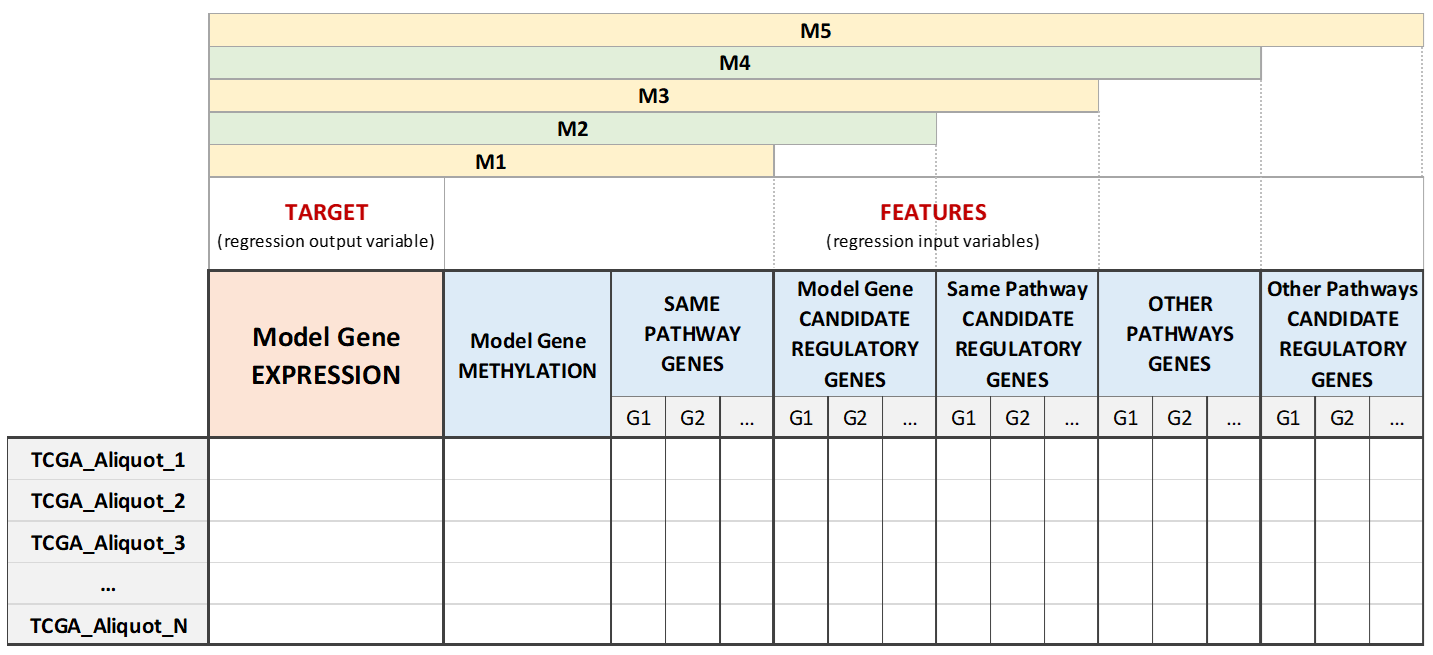
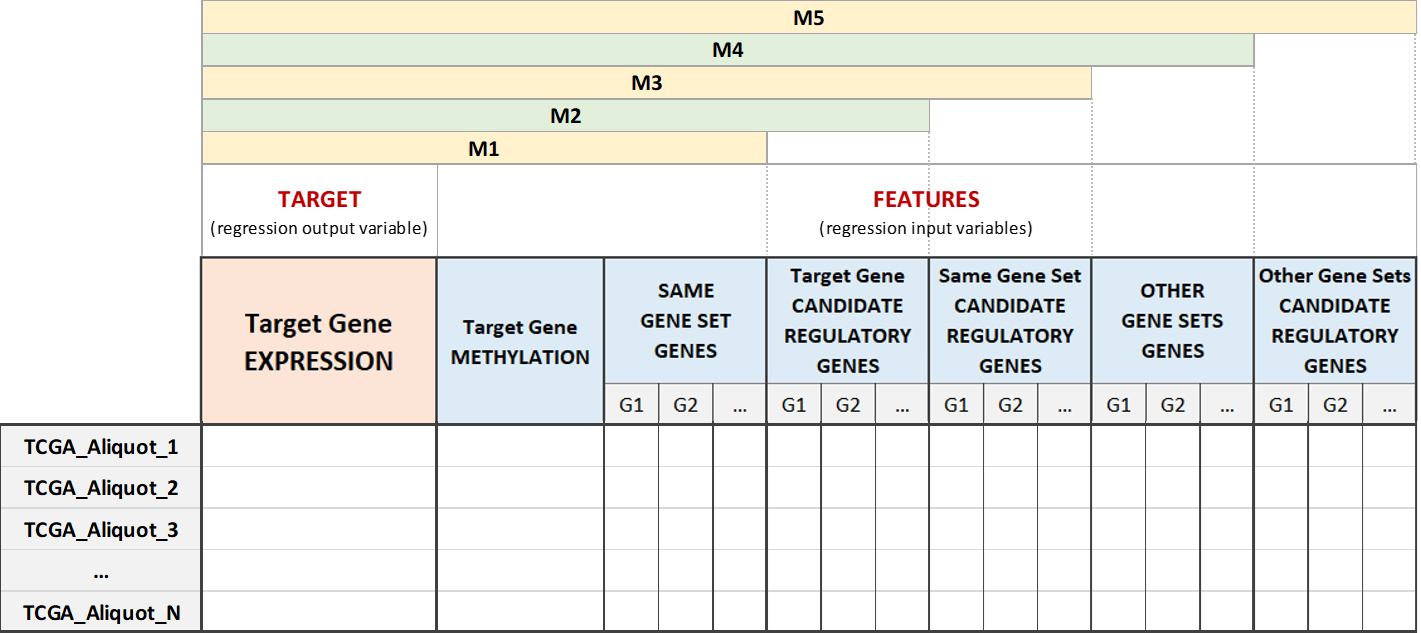
Correct typos in doc

Changed region(s): [[0.0, 0.0, 1.0, 1.0]]

diff --git a/doc/source/datanalysis.rst b/doc/source/datanalysis.rst
@@ -4,21 +4,21 @@ In this phase all the data arranged in the previous phases are processed accordi
 
 Each model is built subsequently executing the following two steps:
 
-	* a **FEATURE SELECTION** process that allows you to select the best subset of features for the model gene, removing inputs that are known to be non-significant for the regulation of the model gene expression beforehand. In particular, for each gene of interest and for each input matrix, the feature selection process is performed five times: in order to reduce the bias, the set of TCGA data samples is randomly split into five, possibly equal, groups of samples which are used to create five different testing sets (this partition is indeed performed only once at the beginning of the data analysis, and then the same five subsets of samples are used for processing all the genes. Therefore, feature selection is performed five times, one for each generated testing set (using the remaining samples as training set), according to a *k-fold cross-validation* process, setting *k=5*. The intersection of the five sets of extracted features is computed to obtain the final selected features for the current gene in the current matrix. Two different types of feature selection are available:
+	* a **FEATURE SELECTION** process that allows selecting the best subset of features for the target gene, removing inputs that are known to be non-significant for the regulation of the target gene expression beforehand. In particular, for each target gene of interest and for each input matrix, the feature selection process is performed five times: in order to reduce the bias, the set of TCGA data samples is randomly split into five, possibly equal, groups of samples which are used to create five different testing sets (this partition is indeed performed only once at the beginning of the data analysis, and then the same five subsets of samples are used for processing all the genes). Therefore, feature selection is performed five times, one for each generated testing set (using the remaining samples as training set), according to a *k-fold cross-validation* process, setting *k=5*. The intersection of the five sets of extracted features is computed to obtain the final selected features for the target gene in the considered data matrix. Two different types of feature selections are available:
 	
-		* **foreward feature selection**, for which three different methods can be implemented by the library, according to how features selected in the previous steps are treated:
+		* **forward feature selection**, for which three different methods are available in the library, according to how features selected in the previous steps are treated:
 		
-			* the default incremental method (**type='ffs_default'**), which implements the forewad feature selection retrieving in each step (i.e. for each data matrix) only the features extracted as most relevant in the previous step and re-evaluating them with all the new features in the current matrix in a new feature selection process;
+			* the default incremental method (**type='ffs_default'**), which implements the forward feature selection considering in each step (i.e. for each data matrix) only the features extracted as most relevant in the previous step and re-evaluating them with all the new features in the current matrix in a new feature selection process;
 			
-			* an incremental method without the re-evaluation of previous features (**type='ffs_no_reval'**), which implements the forewad feature selection considering at each step (i.e. for each data matrix) only the new features added to the current matrix w.r.t. the previous one, maintaining the features selected in the previous step as fixed and without re-evaluating them in the new feature selection process (this means that the set of features selected for each data matrix will surely contain all the features selected for the previous one, along with one or more new relevant features);
+			* an incremental method without the re-evaluation of previous features (**type='ffs_no_reval'**), which implements the forward feature selection considering at each step (i.e. for each data matrix) only the new features added to the current matrix w.r.t. the previous one, maintaining the features selected in the previous step as fixed and without re-evaluating them in the new feature selection process (this means that the set of features selected for each data matrix will surely contain all the features selected for the previous data matrix, along with one or more new relevant features);
 			
-			* a complete method (**type='all'**)which implements the foreward feature selection considering all the features in the current matrix , regardless of the features selected in the previous step. This method is useful when you want to analyze all the potential regulatory features all together, without any previous pre-selection process (e.g. this is extremely useful if applied to M5, which contains the whole set of candidate regulatory features). However, you have to pay attention to this type of selection process, because the computational complexity will inevitably be affected.
+			* a complete method (**type='all'**) which implements the forward feature selection considering all the features in the current matrix, regardless of the features selected in the previous step. This method allows analyzing all the potential regulatory features all together, without any previous pre-selection process (e.g. in particular this can be useful if applied to M5, which contains the whole set of candidate regulatory features). However, pay attention to this type of selection process, because the computational complexity will inevitably increase, in case greatly.
 
 		* **Lasso**, where the features selected are the ones with a coefficient different from zero, according to the Lasso algorithm.
 
 |
 
-The following images illustrates the *k-fold cross-validation* process implemented during the *foreward feature selection* and the details of how the default incremental method works, respectively.
+The following images illustrate the *k-fold cross-validation* process implemented during the *forward feature selection* and the details of how the default incremental method works, respectively.
 
 .. image:: images/fselection.png
 
@@ -38,21 +38,21 @@ Here it is an example of the linear regression process for the sample gene TKT a
 
 |
 
-However, since it is possible to introduce an alteration in the results due to the order in which features are included in the models, the regression procedure implemented here is logically based only on the biological knowledge and it therefore analyzes the full M2 matrix (which in turn contains M1) at first, including all at once in the model all the features whose exchanged order could cause different results in the analysis. Subsequently, data analysis on M3 and M5 is performed, finally executing only three regression processes for each target gene, assessing the impact of the model gene set first and then the influence of the other gene sets considered.
+However, an alteration in the results can be introduced due to the order in which features are included in the models (i.e. considered data matrixes). Thus, the regression procedure implemented is logically based only on the biological meaning of the considered features; it therefore analyzes the full M2 matrix (which contains M1) at first, including all at once the features whose exchanged order could cause different results in the analysis. Subsequently, data analysis on M3 and M5 is performed, finally executing only three regression processes for each target gene, assessing the impact of the genes in the target gene set first and then the influence of the genes in the other gene sets considered.
 
-The set of fuctions used to perform the analysis is the following:
+The set of functions used to perform the analysis is the following:
 
 ``feature_selection(gene_set, n_data_matrix, type)``
 
-	The FEATURE_SELECTION operation executes the feature selection procedure per gene set and per data matrix, according to the specified type of selection: it takes as input the name of the gene set to consider and the number of the model to build (i.e., the number of the data matrix to consider) and performs the specified feature selection for all the genes of interest in the selected set. Results are exported locally either in Excel or text files.
+	The FEATURE_SELECTION operation executes the feature selection procedure per gene set and per data matrix, according to the specified type of selection: it takes as input the name of the gene set to consider and the number of the model to build (i.e., the number of the data matrix to consider) and performs the specified feature selection for all the genes of interest in the selected set. Results are exported locally in Excel and text files.
 	
 	**Parameters:**
 	
-	* *gene_set*: the set of genes of interest to analyze
+	* *gene_set*: the name of the set of genes of interest to analyze
 	
-	* *n_data_matrix*: number identifying the data matrix to analyze (only 2,3 and 5 values are permitted)
+	* *n_data_matrix*: number identifying the data matrix to analyze (only 2, 3 and 5 values are permitted)
 	
-	* *type*: the type of feature selection to perform (possibile values are {'ffs_default','ffs_no_reval','lasso','all'})
+	* *type*: the type of feature selection to perform (possible values are {'ffs_default', 'ffs_no_reval', 'lasso', 'all'})
 	
 	Example::
 
@@ -65,13 +65,13 @@ The set of fuctions used to perform the analysis is the following:
 
 ``linear_regression(gene_set, n_data_matrix)``
 
-	The LINEAR_REGRESSION operation executes the linear regression analysis per gene set and per data matrix, considering as inputs of the model only the features selected during the previous feature selection procedure. Results are exported locally either in Excel or text files.
+	The LINEAR_REGRESSION operation executes the linear regression analysis per gene set and per data matrix, considering as inputs of the model only the features selected during the previous feature selection procedure. Results are exported locally in Excel and text files.
 	
 	**Parameters:**
 	
-	* *gene_set*: the set of genes of interest to analyze
+	* *gene_set*: the name of the set of genes of interest to analyze
 	
-	* *n_data_matrix*: number identifying the data matrix to analyze (only 2,3 and 5 values are permitted)
+	* *n_data_matrix*: number identifying the data matrix to analyze (only 2, 3 and 5 values are permitted)
 	
 	Example::
 
@@ -84,13 +84,13 @@ The set of fuctions used to perform the analysis is the following:
 
 ``summarize_reg(gene_set, n_data_matrix)``
 
-	The SUMMARIZE_REG operation summarizes all the data analysis results, by collecting them in convenient tables that exported locally in Excel files.
+	The SUMMARIZE_REG operation summarizes all the data analysis results, by collecting them in convenient tables that are exported locally in Excel files.
 	
 	**Parameters:**
 	
-	* *gene_set*: the set of genes of interest to summarize
+	* *gene_set*: the name of the set of genes of interest to summarize
 	
-	* *n_data_matrix*: number identifying the data matrix to summarize (only 2,3 and 5 values are permitted)
+	* *n_data_matrix*: number identifying the data matrix to summarize (only 2, 3 and 5 values are permitted)
 	
 	Example::
 
@@ -107,7 +107,7 @@ The set of fuctions used to perform the analysis is the following:
 	
 	**Parameters:**
 	
-	* *gene_set*: the set of genes of interest to summarize
+	* *gene_set*: the name of the set of genes of interest to summarize
 	
 	Example::
 
@@ -118,11 +118,11 @@ The set of fuctions used to perform the analysis is the following:
 
 ``best_genes(gene_set)``
 
-	The BEST_GENES operation collects the target genes with the best linear fit (Adjusted R2 >= 0.6) in the three regression models, storing them locally in a single Excel file.
+	The BEST_GENES operation collects the target genes with the best linear fit (Adjusted R2 >= 0.6) in the three regression models built, storing them locally in a single Excel file.
 	
 	**Parameters:**
 	
-	* *gene_set*: the set of genes of interest to summarize
+	* *gene_set*: the name of the set of genes of interest to summarize
 	
 	Example::
 

diff --git a/doc/source/datamatrixes.rst b/doc/source/datamatrixes.rst
@@ -1,16 +1,16 @@
 Data Matrixes Construction
 ============================================
-Extracted data are organized in order to let them be used as input for the data analysis, such that you can analyze the single regulation system of each target gene, by identifying the role of its possible regulatory features quantified as for their impact on the target expression, whatever the feature is, e.g. the gene methylation, the expression of a gene in the same gene set or in another gene set and the expression of genes encoding for transcription factors.
+Extracted data are organized in order to use them as input for the data analysis. The single regulation system of each target gene is analyzed, by identifying the role of its possible regulatory features. They are quantified for their impact on the target expression, whatever the feature is, i.e. the gene methylation, the expression of a gene in the same gene set or in another gene set and the expression of genes encoding for transcription factors.
 
-An additive approach is adopted, building five different data matrixes for each gene of interest. In this way you can keep track of each gene regulation system step by step, according to the different types of biological features. More specifically, the matrixes are built starting from the gene expression and methylation value of the model gene and gradually incrementing the number of columns, as follows:
+An additive approach is adopted, building five different data matrixes for each gene of interest. In this way it is possible to keep track of each gene regulation system step by step, according to the different types of biological features. More specifically, the matrixes are built starting from the gene expression and methylation value of the target gene and gradually incrementing the number of columns, as follows:
 
-	* **Matrix M1** contains the expression of the model gene, its methylation and the expression of the genes belonging to the same gene set as the model gene;
+	* **Matrix M1** contains the expression of the target gene, its methylation and the expression of the genes belonging to the same gene set as the target gene;
 	
-	* **Matrix M2** adds the expression of all the candidate regulatory genes of the model gene to M1, avoiding repetitions;
+	* **Matrix M2** adds the expression of all the candidate regulatory genes of the target gene to M1, avoiding repetitions;
 	
-	* **Matrix M3** adds the expression of the candidate regulatory genes of all the genes in the model gene set to M2, avoiding repetitions;
+	* **Matrix M3** adds the expression of the candidate regulatory genes of all the genes in the target gene set to M2, avoiding repetitions;
 	
-	* **Matrix M4** adds the expression of the genes belonging to the other gene sets with respect to the considered model gene to matrix M3, avoiding repetitions;
+	* **Matrix M4** adds the expression of the genes belonging to the other gene sets with respect to the considered target gene to matrix M3, avoiding repetitions;
 	
 	* **Matrix M5** adds the expression of the candidate regulatory genes of all the genes belonging to the other gene sets to matrix M4, avoiding repetitions.
 
@@ -19,11 +19,11 @@ An additive approach is adopted, building five different data matrixes for each 
 
 |
 
-Here it is the set of fuctions used to build the five data matrixes:
+Here it is the set of functions used to build the five data matrixes:
 
 ``create_m1()``
 
-	The CREATE_M1 operation builds the first data matrix for each gene of interest, collecting the current gene expression and methylation values, along with the expression values of all the genes in the same gene set. One data matrix for each target gene is created and exported locally in as many Excel files as the considered genes; while the whole set of M1 matrixes is returned as a Python dictionary (dict_model_v1.p), where each target gene (set as key) is associated to a Pandas dataframe containing M1 data of interest (set as value).
+	The CREATE_M1 operation builds the first data matrix for each target gene of interest, collecting the target gene expression and methylation values, along with the expression values of all the genes in the same gene set. One data matrix for each target gene is created and exported locally in as many Excel files as the considered genes; while the whole set of M1 matrixes is returned as a Python dictionary (dict_model_v1.p), where each target gene (set as key) is associated with a Pandas dataframe containing the data for its M1 matrix (set as value).
 	
 	**Return:** a Python dictionary
 	
@@ -36,7 +36,7 @@ Here it is the set of fuctions used to build the five data matrixes:
 
 ``create_m2()``
 
-	The CREATE_M2 operation builds the second data matrix for each gene of interest, adding to the first matrix data about the expression of candidate regulatory genes of each gene of interest. One data matrix for each target gene is created and exported locally in as many Excel files as the considered genes; while the whole set of M2 matrixes is returned as a Python dictionary (dict_model_v2.p), where each target gene (set as key) is associated to a Pandas dataframe containing M2 data of interest (set as value). 
+	The CREATE_M2 operation builds the second data matrix for each target gene of interest, adding to the first matrix data about the expression of candidate regulatory genes of each gene of interest. One data matrix for each target gene is created and exported locally in as many Excel files as the considered genes; while the whole set of M2 matrixes is returned as a Python dictionary (dict_model_v2.p), where each target gene (set as key) is associated with a Pandas dataframe containing the data for its M2 matrix (set as value). 
 	
 	**Return:** a Python dictionary
 	
@@ -49,7 +49,7 @@ Here it is the set of fuctions used to build the five data matrixes:
 
 ``create_m3()``
 
-	The CREATE_M3 operation builds the third data matrix for the analysis for each gene of interest, adding to the second matrix data about the expression of candidate regulatory genes of genes of interest belonging to the same gene set of the model gene. One data matrix for each target gene is created and exported locally in as many Excel files as the considered genes; while the whole set of M3 matrixes is returned as a Python dictionary (dict_model_v3.p), where each target gene (set as key) is associated to a Pandas dataframe containing M3 data of interest (set as value). 
+	The CREATE_M3 operation builds the third data matrix for each target gene of interest, adding to the second matrix data about the expression of candidate regulatory genes of genes of interest belonging to the same gene set of the target gene. One data matrix for each target gene is created and exported locally in as many Excel files as the considered genes; while the whole set of M3 matrixes is returned as a Python dictionary (dict_model_v3.p), where each target gene (set as key) is associated with a Pandas dataframe containing the data for its M3 matrix (set as value). 
 	
 	**Return:** a Python dictionary
 	
@@ -62,7 +62,7 @@ Here it is the set of fuctions used to build the five data matrixes:
 
 ``create_m4()``
 
-	The CREATE_M4 operation builds the fourth data matrix for the analysis for each gene of interest, adding to the third matrix data about the expression of genes of interest belonging to the other gene sets with respect ot the model gene. One data matrix for each target gene is created and exported locally in as many Excel files as the considered genes; while the whole set of M4 matrixes is returned as a Python dictionary (dict_model_v4.p), where each target gene (set as key) is associated to a Pandas dataframe containing M4 data of interest (set as value). 
+	The CREATE_M4 operation builds the fourth data matrix for each target gene of interest, adding to the third matrix data about the expression of genes of interest belonging to the other gene sets with respect to the target gene. One data matrix for each target gene is created and exported locally in as many Excel files as the considered genes; while the whole set of M4 matrixes is returned as a Python dictionary (dict_model_v4.p), where each target gene (set as key) is associated with a Pandas dataframe containing the data for its M4 matrix (set as value). 
 	
 	**Return:** a Python dictionary
 	
@@ -75,7 +75,7 @@ Here it is the set of fuctions used to build the five data matrixes:
 
 ``create_m5()``
 
-	The CREATE_M5 operation builds the fifth data matrix for the analysis for each gene of interest, adding to the fourth matrix data about the expression of candidate regulatory genes of genes of interest belonging to the other gene sets with respect to the model gene.. One data matrix for each target gene is created and exported locally in as many Excel files as the considered genes; while the whole set of M5 matrixes is returned as a Python dictionary (dict_model_v5.p), where each target gene (set as key) is associated to a Pandas dataframe containing M5 data of interest (set as value).
+	The CREATE_M5 operation builds the fifth data matrix for each target gene of interest, adding to the fourth matrix data about the expression of candidate regulatory genes of genes of interest belonging to the other gene sets with respect to the target gene. One data matrix for each target gene is created and exported locally in as many Excel files as the considered genes; while the whole set of M5 matrixes is returned as a Python dictionary (dict_model_v5.p), where each target gene (set as key) is associated with a Pandas dataframe containing the data for its M5 matrix (set as value).
 	
 	**Return:** a Python dictionary
 	

diff --git a/doc/source/introduction.rst b/doc/source/introduction.rst
@@ -2,28 +2,28 @@ Introduction
 ============================================
 This library implements a method for analyzing the regulation systems of target genes in a specific genetic pathology, such as cancer. Adopting a linear regression approach, it builds a predictive model for the regulation of target genes expression, in order to identify the relevant features that better explain the regulation of each gene of interest within patients under analysis.
 
-The regulation system of each target gene is analyzed singularly and independently, by assessing the effect of some specific factors on its expression:
+The regulation system of each target gene is analyzed singularly and independently, by assessing the effect of some specific factors on its expression (regulatory features):
 	
 	* **DNA methylation** (more specifically, the mean promotorial methylation level of the target gene);
 	
-	* **expression of target genes** belonging to the **same gene set** as the model gene;
+	* **expression of the genes** belonging to the **same gene set** (e.g. pathway) as the target gene;
 	
-	* **expression of target genes** belonging to the **other gene sets** with respect to the model gene;
+	* **expression of the genes** belonging to the **other gene sets** (e.g. pathways) with respect to the target gene;
 	
 	* **expression of candidate regulatory genes** (i.e. those genes encoding for transcription factors having binding sites located in the promoter regions of genes of interest).
 
-Methylation, gene expression and transcription factors data of interest are extracted from the `GMQL <http://gmql.eu/gmql-rest/>`_ system, using the Python library `PyGMQL <https://pygmql.readthedocs.io/en/latest/index.html>`_.
+Methylation, gene expression and transcription factor data of interest are extracted from the `GMQL <http://gmql.eu/gmql-rest/>`_ system, using the Python library `PyGMQL <https://pygmql.readthedocs.io/en/latest/index.html>`_.
 ENCODE and TCGA are the datasets currently available on GMQL for this type of data; so, this method can be used to investigate all the 33 types of cancer analyzed by TCGA:
 
 .. image:: images/tcgatumors.png
 
 
-This method allows to analyze the beavior of specific human genes within cancer patients, investigating the biological relationships which hold among each other and the effect that heterogeneous regulatory elements have on their expression.
+This method allows to analyze the behavior of specific human genes within cancer patients, investigating the biological relationships which hold among each other and the effect that heterogeneous regulatory elements have on their expression.
 
-The matter is understanding the relationships between the activity of each target gene and the genes belonging either to the same gene set or to the other relevant sets, and the relationships between all such target genes and their candidate regulatory genes: this may lead to identify common or frequent regulators with a key role in the regulation systems of the genes of interest, eventually predicting their potential oncogenic role. Whenever a correlation exists, an assessment of the potential influence that the gene methylation may have on its expression is also made.
+The matter is understanding the relationships between the activity of each target gene and the genes belonging either to the same gene set or to the other gene sets, and the relationships between all such target genes and their candidate regulatory genes: this may lead to identify common or frequent regulators with a key role in the regulation systems of the genes of interest, eventually predicting their potential oncogenic role. Whenever a correlation exists, an assessment of the potential influence that the gene methylation may have on its expression is also made.
 
-Analyzing all the features is usually extremely heavy from a computational standpoint, resulting in a high computational complexity. For this reason, in order to make this analysis sustainable within reasonable time and using standard computational resources, the approach implemented in this library does not analyze all the existing correlations among target genes and their regulatory features, but it identifies those associations that best contribute to the target genes expression regulation.
-The results are focused by design to the **best-predicting sets of features**, leaving out potential regulators with important biological functions, but with an extremely low predictive power with respect to the expression of the target gene.
+Analyzing all the considered regulatory features is usually extremely heavy from a computational standpoint, resulting in a high computational complexity. For this reason, in order to make this analysis sustainable within reasonable time and using standard computational resources, the approach implemented in this library does not analyze all the existing correlations among target genes and all their regulatory features, but it identifies those associations that best contribute to the target genes expression regulation.
+The results are focused by design to the **best-predicting sets of features**, leaving out potential regulators in case with important biological functions, but with an extremely low predictive power with respect to the expression of the target gene.
 
 The main phases that are performed during the complete execution of this method are the following:
 
@@ -43,8 +43,8 @@ The next chapters of the documentation deeply explain the rationale behind each 
 
 |
 
-This method has been developed and validated at first for assessing the behavior of 177 target genes belonging to three relavant pathways (DNA_REPAIR, STEM_CELLS and GLUCOSE_METABOLISM) for the ovarian cancer, more specifically the *Ovarian Serous Cystadenocarcinoma*.
-All the examples in this documentation refers to this specific ovarian cancer case.
+This method has been developed and validated at first for assessing the behavior of 177 target genes belonging to three relevant pathways (DNA_REPAIR, STEM_CELLS and GLUCOSE_METABOLISM) for the ovarian cancer, more specifically the *Ovarian Serous Cystadenocarcinoma*.
+All the examples in this documentation refer to this specific ovarian cancer case.
 
 You can see here a sample Python script for using the library::
 

diff --git a/doc/source/encode.rst b/doc/source/encode.rst
@@ -5,7 +5,7 @@ The first data extraction phase consists in selecting from ENCODE all the Transc
 .. image:: images/TFs.png
 
 
-The query for extracting TFs of interest is implemented acconding to the `PyGMQL <https://pygmql.readthedocs.io/en/latest/index.html>`_ syntax and data are retrieved from public datasets available on the `GMQL <http://gmql.eu/gmql-rest/>`_
+The query for extracting TFs of interest is implemented according to the `PyGMQL <https://pygmql.readthedocs.io/en/latest/index.html>`_ syntax and data are retrieved from public datasets available on the `GMQL <http://gmql.eu/gmql-rest/>`_
 system.
 
 |
@@ -16,11 +16,11 @@ Extraction of Transcription Factors
 
 ``extract_tfs(cell_lines, gencode_version)``
 
-	The EXTRACT_TFS operation extracts, from ChIP_Seq ENCODE expriments and for assembly GRCh38, the Transcription Factors that bind to promoter regions of genes belonging to specific cell lines, filtering by 'conservative idr thresholded peaks' in order to extract higher quality region data, and removing negative audits in order to keep only high quality data samples. Intermediate results files are exported locally during the execution of the function, while the final set of trasncription factors is returned as a Python dictionary (dict_GeneTF.p), where each target gene (set as key) is associated to the list of TFs binding to its promoters (set as value).
+	The EXTRACT_TFS operation extracts, from ChIP_Seq ENCODE experiments and for assembly GRCh38, the Transcription Factors of specific cell lines that bind to promoter regions of genes in the specified version of the GENCODE genomic annotations, filtering by 'conservative idr thresholded peaks' in order to extract higher quality region data, and removing negative audits in order to keep only high quality data samples. Intermediate result files are exported locally during the execution of the function, while the final set of transcription factors is returned as a Python dictionary (dict_GeneTF.p), where each target gene (set as key) is associated with the list of TFs binding to its promoters (set as value).
 	
 	**Parameters:**
 	
-	* *cell_lines*: a list of strings containing the names of the cell lines to analyze (it's possible to consider data from 1 up to 3 cell lines at the same time)
+	* *cell_lines*: a list of strings containing the names of the cell lines to analyze (it is possible to consider data from 1 up to 3 cell lines at the same time)
 	
 	* *gencode_version*: number representing the GENCODE genomic annotations to use (currently, for assembly GRCh38, versions 22, 24 and 27 can be used)
 	
@@ -39,7 +39,7 @@ Identification of Regulatory Genes
 
 ``extract_regulatory_genes()``
 
-	The EXTRACT_REGULATORY_GENES operation extracts from the set of Transcription Factors associated to a gene, the list of its candidate regulatory genes, i.e., the genes that encode for those TFs. Intermediate results files are exported locally during the execution of the function, while the final set of trasncription factors is returned as a Python dictionary (dict_RegulGenes.p), where each target gene (set as key) is associated to the list of its candidate regulatory genes (set as value).
+	The EXTRACT_REGULATORY_GENES operation extracts from the set of Transcription Factors associated with a gene, the list of its candidate regulatory genes, i.e., the genes that encode for those TFs. Intermediate results files are exported locally during the execution of the function, while the final set of transcription factors is returned as a Python dictionary (dict_RegulGenes.p), where each target gene (set as key) is associated with the list of its candidate regulatory genes (set as value).
 	
 	**Return:** a Python dictionary
 	
@@ -50,7 +50,7 @@ Identification of Regulatory Genes
 
 |
 
-The following image explains the extraction process for each target gene works and how its TFs and regulatory genes are identified:
+The following image explains how the extraction process for each target gene works and how its TFs and regulatory genes are identified:
 
 .. image:: images/encode.png
 

diff --git a/doc/source/initialization.rst b/doc/source/initialization.rst
@@ -2,12 +2,12 @@ Initialization
 ============================================
 
 The library automatically creates directories for storing all the intermediate and final results in the current workspace of the user (i.e. the directory Python it is executed in), in order to be able to use them during the execution, when needed.
-For this reason, it is advised to execute Python direclty within the directory you want the results to be saved in (let us call it "*library workspace*") and it is highly recommended not to move any file until the whole process has been fully executed, that is all the functions of this library have been run and the whole analysis procedure has been perfomed.
+For this reason, it is advised to execute Python directly within the directory you want the results to be saved in (let us call it "*library workspace*") and it is highly recommended not to move any file until the whole process has been fully executed, that is all the functions of this library have been run and the whole analysis procedure has been performed.
 
 ------------------
 Genes of Interest
 ------------------
-The first thing you need to do is defining your genes of interest for the pathology you want to analyze: these are the target genes whose regulation systems will be assesed during the analysis. Genes belonging to one or multiple gene sets are supported. So, you can analyze genes from different gene sets of your interest, by simply specifying the name of each set, as explained below.
+The first thing you need to do is defining your genes of interest for the pathology you want to analyze: these are the target genes whose regulation systems will be assessed during the analysis. Genes belonging to one or multiple gene sets are supported. So, you can analyze genes from different gene sets of your interest, by simply specifying the name of each set, as explained below.
 
 Here it is how this list of genes has to be structured:
     
@@ -15,7 +15,7 @@ Here it is how this list of genes has to be structured:
 	
 		* GENE_SYMBOL is the official gene name
 
-		* ENTREZ_GENE_ID is the numerical ID associated with the gene
+		* ENTREZ_GENE_ID is the numerical ID of the Entrez Gene database associated with the gene
 
 		* GENE_SET is the name of the gene set the corresponding gene belongs to 
 

diff --git a/doc/source/tcga.rst b/doc/source/tcga.rst
@@ -3,10 +3,10 @@ TCGA Data Extraction
 The second data extraction phase consists in extracting the methylation level (expressed as the **mean** of its *beta_values*) and the gene expression value of each target gene and for each data sample under analysis.
 These types of data are currently available in GMQL for the TCGA dataset, which is the one that is used in this method.
 
-The queries for extracting methylation and gene expression data of interest are implemented acconding to the `PyGMQL <https://pygmql.readthedocs.io/en/latest/index.html>`_ syntax and data are retrieved from public datasets available on the `GMQL <http://gmql.eu/gmql-rest/>`_
+The queries for extracting methylation and gene expression data of interest are implemented according to the `PyGMQL <https://pygmql.readthedocs.io/en/latest/index.html>`_ syntax and data are retrieved from public datasets available on the `GMQL <http://gmql.eu/gmql-rest/>`_
 system.
 
-Only common data samples having both methylation and expression values in TCGA are selected. Each data sample corresponds to a specific patient, which is here identified by a unique string, called *Sample Barcode*, with the following structure: **TCGA-xx-xxxx-xxx**.
+Only common data samples having both methylation and expression values in TCGA are selected. Each data sample corresponds to a specific patient, which is here identified by a unique string, called *TCGA Aliquot*, with the following structure: **TCGA-xx-xxxx-xxx**.
 
 
 -------------------------------------
@@ -25,9 +25,9 @@ Extraction of Methylation values
 	
 	* *gencode_version*: number representing the GENCODE genomic annotations to use (currently, for assembly GRCh38, versions 22, 24 and 27 can be used)
 	
-	* *methyl_upstream*: number of bases upstream the gene TSS to consider for the extraction of methylation sites of interest
+	* *methyl_upstream*: number of bases upstream each gene TSS to consider for the extraction of methylation sites of interest
 	
-	* *methyl_downstream*: number of bases downstream the gene TSS to consider for the extraction of methylation sites of interest
+	* *methyl_downstream*: number of bases downstream each gene TSS to consider for the extraction of methylation sites of interest
 	
 	**Return:** a Pandas dataframe
 	

diff --git a/doc/source/mapping.rst b/doc/source/mapping.rst
@@ -4,7 +4,7 @@ As comprehensive information on human genes is available online through multiple
 
 ``genes_mapping()``
 
-	The GENES_MAPPING operation creates creates a mapping table for all the human genes (downloaded from HGNC), providing their current official Gene Symbols, their main IDs, and, if existing, the transcription factors they encode (with their corresponding UniProt IDs). The mapping table is return as a Pandas dataframe and exported locally in the Excel file 'Genes Mapping.xlsx'.
+	The GENES_MAPPING operation creates a mapping table for all the human genes (downloaded from HGNC), providing their current official Gene Symbols, their main IDs, and, if existing, the transcription factors they encode (with their corresponding UniProt IDs). The mapping table is returned as a Pandas dataframe and exported locally in the Excel file 'Genes Mapping.xlsx'.
 	
 	**Return:** a Pandas dataframe
 	

diff --git a/doc/source/installation.rst b/doc/source/installation.rst
@@ -5,7 +5,7 @@ Installation
 Prerequisites
 -------------
 
-**PyGMQL** package is required. Follow the instructions at `https://github.com/DEIB-GECO/PyGMQL <http://>`_
+**PyGMQL** package is required. Follow the instructions at this `link <https://github.com/DEIB-GECO/PyGMQL>`_
 to install it and to known more about it.
 
 Currently, Python (version >= 3.6) is required.

diff --git a/doc/source/index.rst b/doc/source/index.rst
@@ -19,7 +19,3 @@ Welcome to genereg's documentation!
    tcga
    datamatrixes
    datanalysis
-   
-* :ref:`genindex`
-* :ref:`modindex`
-* :ref:`search`
